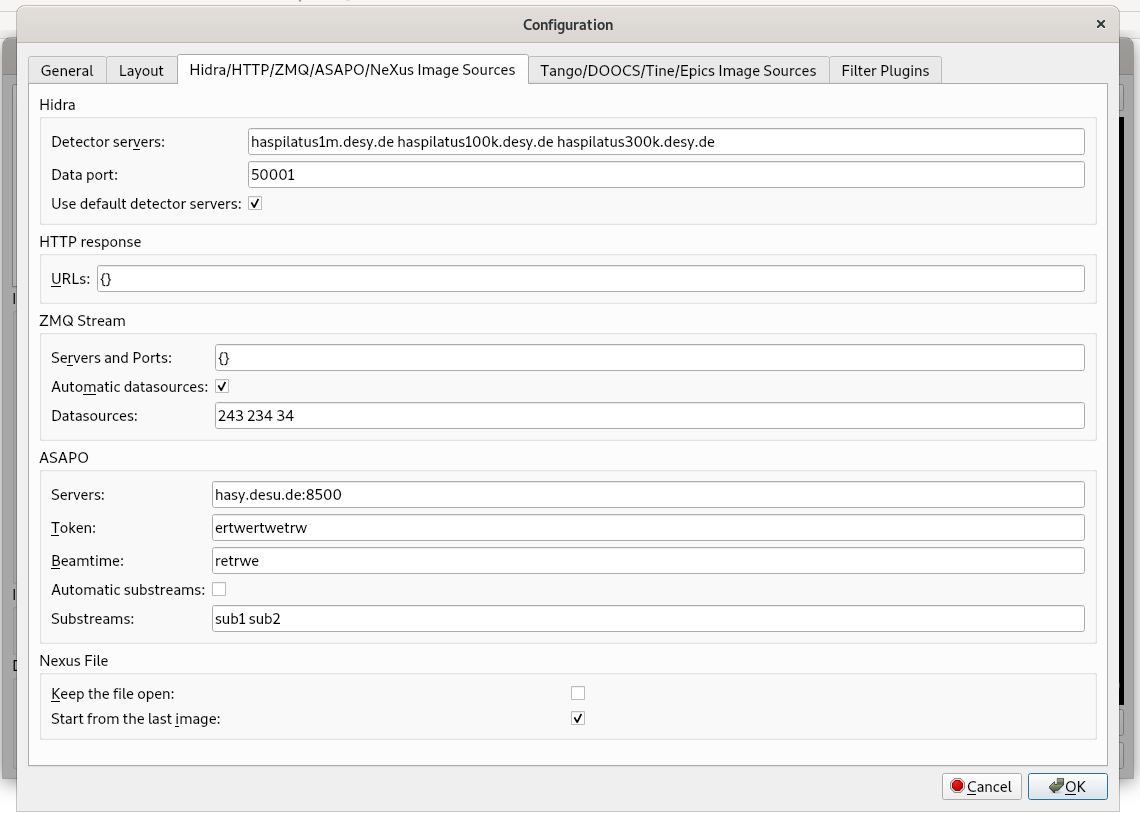
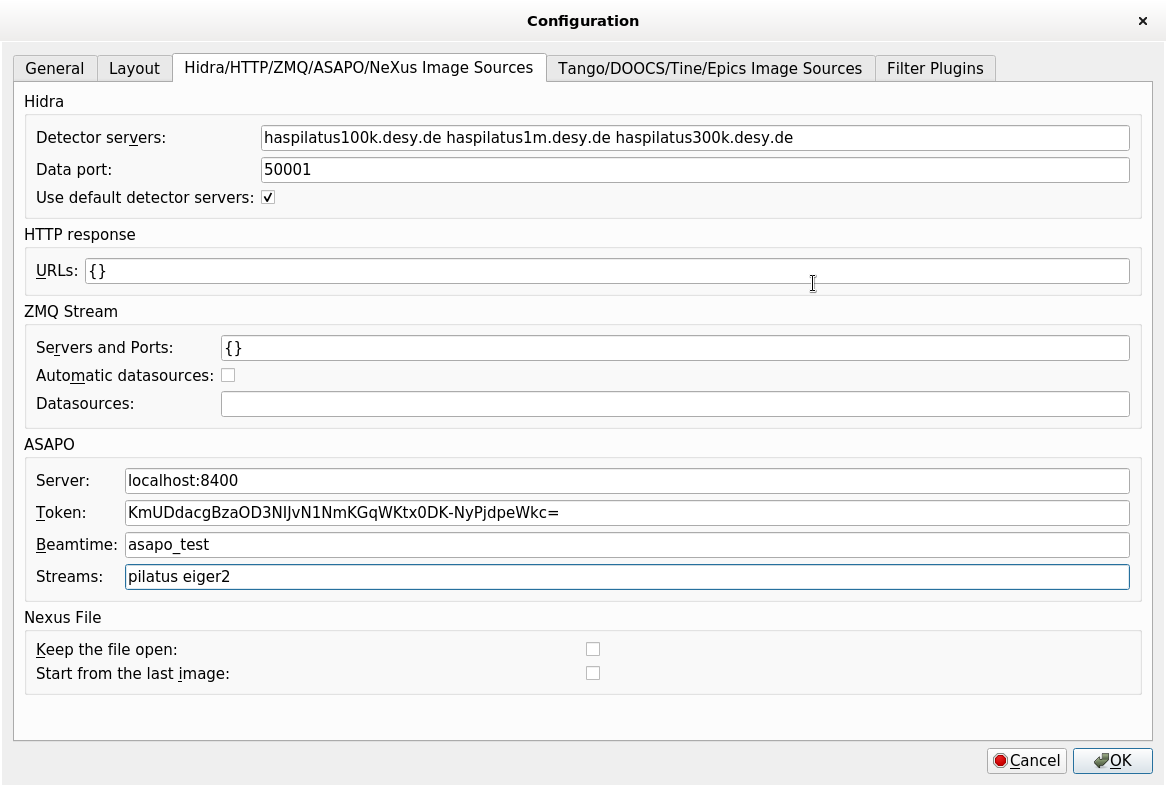
update documentation

Changed region(s): [[0.0, 0.0, 1.0, 1.0], [0.4912, 0.8539, 0.5219, 0.8844]]

diff --git a/lavuelib/help/LaVue---Start_98091837.html b/lavuelib/help/LaVue---Start_98091837.html
@@ -38,7 +38,7 @@
         
                         </div>
                     <div id="main-content" class="wiki-content group">
-                    <h3 id="LaVue-Start-StarttheViewer">Start the Viewer</h3><p>To start LaVue</p><pre>  $ lavue</pre><p>for python 2.7 or</p><pre>  <span class="pl-s1">$ lavue3</span></pre><p>for python 3.</p><h3 id="LaVue-Start-StarttheViewerintheexpertmode">Start the Viewer in the expert mode</h3><p>Changing LaVue  settings is available in the expert mode, i.e.</p><pre>  $ lavue -m expert</pre><p>under an additional button: <code>Configuration</code>.</p><h3 id="LaVue-Start-Launchingoptions">Launching options</h3><p>To get all possible command-line parameters</p><pre>  <span class="pl-s1">$ lavue -h</span></pre><pre><span class="pl-s1"><br/><br/>usage: lavue [-h] [-v] [-m MODE] [-y STYLE] [-e STYLESHEET] [-j INSTANCE]<br/>             [-f IMAGEFILE] [-s SOURCE] [-c CONFIGURATION] [-z] [-o MBUFFER]<br/>             [--channel CHANNEL] [-b BKGFILE] [-k MASKFILE] [-p MASKHIGHVALUE]<br/>             [-t TRANSFORMATION] [-i SCALING] [-l LEVELS] [-q AUTOFACTOR]<br/>             [-g GRADIENT] [-r VIEWRANGE] [-x] [-u TOOL] [-a TANGODEVICE]<br/>             [-d DOORDEVICE] [-n ANALYSISDEVICE]<br/><br/>2d detector live image viewer<br/><br/>optional arguments:<br/>  -h, --help            show this help message and exit<br/>  -v, --version         program version<br/>  -m MODE, --mode MODE  interface mode, i.e. user, expert<br/>  -y STYLE, --style STYLE<br/>                        Qt style<br/>  -e STYLESHEET, --stylesheet STYLESHEET<br/>                        Qt stylesheet<br/>  </span>-j INSTANCE, --instance INSTANCE<br/>                        LaVue instance with separate configuration<br/>  --organization ORGANIZATION<br/>                        Organization name<br/>  --domain DOMAIN<br/>                        Organization domain name<br/>  --configuration-path CONFIGPATH<br/>                        Configuration path<br/><span class="pl-s1">  -f IMAGEFILE, --image-file IMAGEFILE<br/>                        image file name to show, e.g. /tmp/myfile2.nxs://entry/data/pilatus,,-1<br/>  -s SOURCE, --source SOURCE<br/>                        image source, i.e. hidra, http, tangoattr,<br/>                            tangoevents, tangofile, doocsprop, tineprop, <br/>                            epicspv, zmq, nxsfile, test<br/>                        multiple-source names is separated by semicolon ';'<br/>  -c CONFIGURATION, --configuration CONFIGURATION<br/>                        configuration strings for the image source separated by comma, e.g.<br/>                          hidra -&gt; '-c haspilatus300k.desy.de'<br/>                          http -&gt; '-c haso228eiger/1.5.0'<br/>                          tangoattr -&gt; '-c sys/tg_test/1/double_image_ro'<br/>                          tangoevents -&gt; '-c sys/lamccds/1/video_last_image'<br/>                          tangofile -&gt; '-c p00/plt/1/LastImageTaken,p00/plt/1/LastImagePath'<br/>                          zmq -&gt; '-c haso228:5535,topic'<br/>                          doocsprop -&gt; '-c TTF2.FEL/BLFW2.CAM/BL0M1.CAM/IMAGE_EXT'<br/>                          nxsfile -&gt; '-c /tmp/myfile.nxs://entry/data/pilatus'<br/>                                  or '-c /tmp/myfile2.nxs://entry/data/pilatus,0,34'<br/>                          tineprop -&gt; '-c '/HASYLAB/P00_LM00/Output/Frame'<br/>                          epicspv -&gt; '-c '00SIM0:cam1:,[640,480]'<br/>                       configuration for multiple-sources is separated by semicolon ';'<br/>  --offset OFFSET relative offset x,y[,TRANSFORMATION]</span><span class="pl-s1"><br/>                        where x,y are position of the first pixel for a particular image source<br/>                        while optional TRANSFORMATION can be:<br/>                          flip-up-down, flipud, fud, flip-left-right, fliplr, flr, transpose, t,<br/>                          rot90, r90, rot180, r180, r270, rot270, rot180+transpose, rot180t or r180t<br/>                        offset for multiple-sources is separated by semicolon ';'<br/>                        </span>e.g.<br/>                           ;200,300;,54;121,3<br/>                           200,300;100,<br/>                           200,300;100,200,t<br/>                           ;200,300,r45;,52;11,3,r180t<br/>  -w RANGEWINDOW, --range-window RANGEWINDOW<br/>                        range window slices, i.e. x1:x2,y1:y2 , e.g. -w 10:500,20:200<br/>                          where 'm' is '-'<span class="pl-s1"><br/>  --ds-factor DSFACTOR integer down-sampling factor<br/>  --ds-reduction DSREDUCTION<br/>                        down-sampling reduction function, i.e. 'max', 'min', 'mean' or 'sum'<br/>  -z, --filters apply image filters<br/>  -o MBUFFER, --memory-buffer MBUFFER<br/>                     size of memory buffer in frames<br/>  --channel CHANNEL<br/>                     default channel number or 'sum', 'mean', 'rgb' or RGB channels separated by comma e.g.'0,1,3'<br/>  -b BKGFILE, --bkg-file BKGFILE<br/>                        background file-name to load<br/>  </span>--bright-field-file BRIGHTFIELDFILE<br/>                        bright field file-name to load<br/><span class="pl-s1">  -k MASKFILE, --mask-file MASKFILE<br/>                     background file-name to load<br/>  -p MASKHIGHVALUE, --mask-high-value MASKHIGHVALUE<br/>                        highest pixel value to show  <br/>  -t TRANSFORMATION, --transformation TRANSFORMATION<br/>                        image transformation, i.e.<br/>                          flip-up-down, flip-left-right, transpose,<br/>                          rot90, rot180, rot270, rot180+transpose<br/>  -i SCALING, --scaling SCALING<br/>                        intensity scaling, i.e. sqrt, linear, log<br/>  -l LEVELS, --levels LEVELS<br/>                        intensity display levels e.g. -l m20,20<br/>                          where 'm' is '-'<br/>  -q AUTOFACTOR, --factor AUTOFACTOR<br/>                        factor of the highest pick for automatic levels in %, e.g. -q 0.5<br/>  -g GRADIENT, --gradient GRADIENT<br/>                        color gradient, i.e. grey, highcontrast, thermal, flame,<br/>                          bipolar, spectrum, spectrumclip, greyclip, reversegrey, cyclic,<br/>                          yellowy, inverted<br/>  -r VIEWRANGE, --range VIEWRANGE<br/>                        viewbox range, i.e. xmin,ymin,xsize,ysize , e.g. -r 5.6,m60.7,543.2,444.11<br/>                            where 'm' is '-'<br/>  -x, --start           connect the image source<br/>  -u TOOL, --tool TOOL  utility tool, i.e. intensity, roi, movemotors, meshscan, maxima,<br/>                          linecut, projections, 1d-plot, angle/q, q+roi+proj, parameters, diffractogram<br/></span>  --tool-configuration TOOLCONFIG<br/>                          JSON dictionary with tool configuration, e.g. {&quot;rows_to_plot&quot;:&quot;0,1&quot;,&quot;buffer_size&quot;:512}<br/><span class="pl-s1">  -a TANGODEVICE, --tango-device TANGODEVICE<br/>                        tango device of LavueController to communicated with clients during the run<br/>  -d DOORDEVICE, --door DOORDEVICE<br/>                        door device to communicated with sardana during the run<br/>  -n </span>ANALYSISDEVICE, --analysis-device ANALYSISDEVICE <br/>                        tango analysis device of LambdaOnlineAnalysis to communicate with analysis clients during the run<br/>  --log LOG logging level, i.e. debug, info, warning, error, critical</pre><pre><span class="pl-s1"><br/></span></pre><h3 id="LaVue-Start-ChangeLog">ChangeLog</h3><p>Changes for a specific version of LaVue can be found at <a href="https://raw.githubusercontent.com/lavue-org/lavue/develop/ChangeLog" class="external-link" rel="nofollow">ChangeLog</a></p>
+                    <h3 id="LaVue-Start-StarttheViewer">Start the Viewer</h3><p>To start LaVue</p><pre>  $ lavue</pre><p>for python 2.7 or</p><pre>  <span class="pl-s1">$ lavue3</span></pre><p>for python 3.</p><h3 id="LaVue-Start-StarttheViewerintheexpertmode">Start the Viewer in the expert mode</h3><p>Changing LaVue  settings is available in the expert mode, i.e.</p><pre>  $ lavue -m expert</pre><p>under an additional button: <code>Configuration</code>.</p><h3 id="LaVue-Start-Launchingoptions">Launching options</h3><p>To get all possible command-line parameters</p><pre>  <span class="pl-s1">$ lavue -h</span></pre><pre><span class="pl-s1"><br/><br/>usage: lavue [-h] [-v] [-m MODE] [-y STYLE] [-e STYLESHEET] [-j INSTANCE]<br/>             [-f IMAGEFILE] [-s SOURCE] [-c CONFIGURATION] [-z] [-o MBUFFER]<br/>             [--channel CHANNEL] [-b BKGFILE] [-k MASKFILE] [-p MASKHIGHVALUE]<br/>             [-t TRANSFORMATION] [-i SCALING] [-l LEVELS] [-q AUTOFACTOR]<br/>             [-g GRADIENT] [-r VIEWRANGE] [-x] [-u TOOL] [-a TANGODEVICE]<br/>             [-d DOORDEVICE] [-n ANALYSISDEVICE]<br/><br/>2d detector live image viewer<br/><br/>optional arguments:<br/>  -h, --help            show this help message and exit<br/>  -v, --version         program version<br/>  -m MODE, --mode MODE  interface mode, i.e. user, expert<br/>  -y STYLE, --style STYLE<br/>                        Qt style<br/>  -e STYLESHEET, --stylesheet STYLESHEET<br/>                        Qt stylesheet<br/>  </span>-j INSTANCE, --instance INSTANCE<br/>                        LaVue instance with separate configuration<br/>  --organization ORGANIZATION<br/>                        Organization name<br/>  --domain DOMAIN<br/>                        Organization domain name<br/>  --configuration-path CONFIGPATH<br/>                        Configuration path<br/><span class="pl-s1">  -f IMAGEFILE, --image-file IMAGEFILE<br/>                        image file name to show, e.g. /tmp/myfile2.nxs://entry/data/pilatus,,-1<br/>  -s SOURCE, --source SOURCE<br/>                        image source, i.e. hidra, http, tangoattr,<br/>                            tangoevents, tangofile, doocsprop, tineprop, <br/>                            epicspv, zmq, asapo, nxsfile, test<br/>                        multiple-source names is separated by semicolon ';'<br/>  -c CONFIGURATION, --configuration CONFIGURATION<br/>                        configuration strings for the image source separated by comma, e.g.<br/>                          hidra -&gt; '-c haspilatus300k.desy.de'<br/>                          http -&gt; '-c haso228eiger/1.5.0'<br/>                          tangoattr -&gt; '-c sys/tg_test/1/double_image_ro'<br/>                          tangoevents -&gt; '-c sys/lamccds/1/video_last_image'<br/>                          tangofile -&gt; '-c p00/plt/1/LastImageTaken,p00/plt/1/LastImagePath'<br/>                          zmq -&gt; '-c haso228:5535,topic'<br/>                          doocsprop -&gt; '-c TTF2.FEL/BLFW2.CAM/BL0M1.CAM/IMAGE_EXT'<br/>                          nxsfile -&gt; '-c /tmp/myfile.nxs://entry/data/pilatus'<br/>                                  or '-c /tmp/myfile2.nxs://entry/data/pilatus,0,34'<br/>                          tineprop -&gt; '-c /HASYLAB/P00_LM00/Output/Frame'<br/>                          asapo -&gt; '-c pilatus,substream2'<br/>                          epicspv -&gt; '-c '00SIM0:cam1:,[640,480]'<br/>                       configuration for multiple-sources is separated by semicolon ';'<br/>  --offset OFFSET relative offset x,y[,TRANSFORMATION]</span><span class="pl-s1"><br/>                        where x,y are position of the first pixel for a particular image source<br/>                        while optional TRANSFORMATION can be:<br/>                          flip-up-down, flipud, fud, flip-left-right, fliplr, flr, transpose, t,<br/>                          rot90, r90, rot180, r180, r270, rot270, rot180+transpose, rot180t or r180t<br/>                        offset for multiple-sources is separated by semicolon ';'<br/>                        </span>e.g.<br/>                           ;200,300;,54;121,3<br/>                           200,300;100,<br/>                           200,300;100,200,t<br/>                           ;200,300,r45;,52;11,3,r180t<br/>  -w RANGEWINDOW, --range-window RANGEWINDOW<br/>                        range window slices, i.e. x1:x2,y1:y2 , e.g. -w 10:500,20:200<br/>                          where 'm' is '-'<span class="pl-s1"><br/>  --ds-factor DSFACTOR integer down-sampling factor<br/>  --ds-reduction DSREDUCTION<br/>                        down-sampling reduction function, i.e. 'max', 'min', 'mean' or 'sum'<br/>  -z, --filters apply image filters<br/>  -o MBUFFER, --memory-buffer MBUFFER<br/>                     size of memory buffer in frames<br/>  --channel CHANNEL<br/>                     default channel number or 'sum', 'mean', 'rgb' or RGB channels separated by comma e.g.'0,1,3'<br/>  -b BKGFILE, --bkg-file BKGFILE<br/>                        background file-name to load<br/>  </span>--bright-field-file BRIGHTFIELDFILE<br/>                        bright field file-name to load<br/><span class="pl-s1">  -k MASKFILE, --mask-file MASKFILE<br/>                     background file-name to load<br/>  -p MASKHIGHVALUE, --mask-high-value MASKHIGHVALUE<br/>                        highest pixel value to show  <br/>  -t TRANSFORMATION, --transformation TRANSFORMATION<br/>                        image transformation, i.e.<br/>                          flip-up-down, flip-left-right, transpose,<br/>                          rot90, rot180, rot270, rot180+transpose<br/>  -i SCALING, --scaling SCALING<br/>                        intensity scaling, i.e. sqrt, linear, log<br/>  -l LEVELS, --levels LEVELS<br/>                        intensity display levels e.g. -l m20,20<br/>                          where 'm' is '-'<br/>  -q AUTOFACTOR, --factor AUTOFACTOR<br/>                        factor of the highest pick for automatic levels in %, e.g. -q 0.5<br/>  -g GRADIENT, --gradient GRADIENT<br/>                        color gradient, i.e. grey, highcontrast, thermal, flame,<br/>                          bipolar, spectrum, spectrumclip, greyclip, reversegrey, cyclic,<br/>                          yellowy, inverted<br/>  -r VIEWRANGE, --range VIEWRANGE<br/>                        viewbox range, i.e. xmin,ymin,xsize,ysize , e.g. -r 5.6,m60.7,543.2,444.11<br/>                            where 'm' is '-'<br/>  -x, --start           connect the image source<br/>  -u TOOL, --tool TOOL  utility tool, i.e. intensity, roi, movemotors, meshscan, maxima,<br/>                          linecut, projections, 1d-plot, angle/q, q+roi+proj, parameters, diffractogram<br/></span>  --tool-configuration TOOLCONFIG<br/>                          JSON dictionary with tool configuration, e.g. {&quot;rows_to_plot&quot;:&quot;0,1&quot;,&quot;buffer_size&quot;:512}<br/><span class="pl-s1">  -a TANGODEVICE, --tango-device TANGODEVICE<br/>                        tango device of LavueController to communicated with clients during the run<br/>  -d DOORDEVICE, --door DOORDEVICE<br/>                        door device to communicated with sardana during the run<br/>  -n </span>ANALYSISDEVICE, --analysis-device ANALYSISDEVICE <br/>                        tango analysis device of LambdaOnlineAnalysis to communicate with analysis clients during the run<br/>  --log LOG logging level, i.e. debug, info, warning, error, critical</pre><pre><span class="pl-s1"><br/></span></pre><h3 id="LaVue-Start-ChangeLog">ChangeLog</h3><p>Changes for a specific version of LaVue can be found at <a href="https://raw.githubusercontent.com/lavue-org/lavue/develop/ChangeLog" class="external-link" rel="nofollow">ChangeLog</a></p>
                     </div>
 
                     
@@ -46,7 +46,7 @@
                 </div>             </div> 
             <div id="footer" role="contentinfo">
                 <section class="footer-body">
-                    <!--<p>Document generated by Confluence on 06. Feb. 2020 08:57</p>-->
+<!--<p>Document generated by Confluence on 06. Feb. 2020 08:57</p>-->
                     <!--<div id="footer-logo"><a href="http://www.atlassian.com/">Atlassian</a></div>-->
                 </section>
             </div>

diff --git a/lavuelib/help/98092151.html b/lavuelib/help/98092151.html
@@ -44,7 +44,7 @@
         
                         </div>
                     <div id="main-content" class="wiki-content group">
-                    <p><br/></p><p>The third tab of the configuration dialog contains <strong>Image Sources</strong> configuration. It allows for the user to adjust image sources and their dialogs.</p><p><span class="confluence-embedded-file-wrapper confluence-embedded-manual-size"><img class="confluence-embedded-image"  src="attachments/98092151/129385454.png" data-image-src="attachments/98092151/129385454.png" data-unresolved-comment-count="0" data-linked-resource-id="129385454" data-linked-resource-version="5" data-linked-resource-type="attachment" data-linked-resource-default-alias="lavue_config_isources.png" data-base-url="https://confluence.desy.de" data-linked-resource-content-type="image/png" data-linked-resource-container-id="98092151" data-linked-resource-container-version="17"></span></p><p><strong>Hidra:</strong></p><ul><li><strong>Detector servers:  </strong>possible hidra detector hosts separated by spaces</li><li><strong>Data port: </strong>hidra data port. Each instance of lavue on the same host should use a different data port</li><li><strong>Use default detector servers: </strong>add default detector server names from the DESY pool</li></ul><p><strong>HTTP response</strong></p><ul><li><strong> URLs:</strong> <a href="https://www.json.org/" class="external-link" rel="nofollow">JSON</a> dictionary assigning labels to HTTP urls</li></ul><p><strong>ZMQ Stream</strong></p><ul><li><strong>Servers and Ports:</strong><a href="https://www.json.org/" class="external-link" rel="nofollow"> JSON</a> dictionary assigning labels to server and port of ZMQ stream</li><li><strong>Automatic datasources: </strong>selects possible datasources from ZMQ stream metadata</li><li><strong>Datasources: </strong>defines possible datasources, i.e. ZMQ topics, separated by spaces</li></ul><p><strong>ASAPO</strong></p><ul><li><strong>Servers: </strong>possible ASAPO servers, i.e. host:port,  separated by spaces</li><li><strong>Token: </strong>token to asapo servers</li><li><strong>Beamtime: </strong>a name of beamtime used by asapo</li><li><strong>Automatic substreams:</strong> fetches possible substreams from ASAPO broker</li><li><strong>Substreams:</strong> defines possible substream names which are separated by spaces</li></ul><p><strong>Nexus File</strong></p><ul><li><strong>Keep the file open:</strong> does not close the nexus file after reading the field frame</li><li><strong>Start from the last image: </strong>displays only the last image frame</li></ul><p><br/></p><p><br/></p>
+                    <p><br/></p><p>The third tab of the configuration dialog contains <strong>Image Sources</strong> configuration. It allows for the user to adjust image sources and their dialogs.</p><p><span class="confluence-embedded-file-wrapper confluence-embedded-manual-size"><img class="confluence-embedded-image"  src="attachments/98092151/129385454.png" data-image-src="attachments/98092151/129385454.png" data-unresolved-comment-count="0" data-linked-resource-id="129385454" data-linked-resource-version="6" data-linked-resource-type="attachment" data-linked-resource-default-alias="lavue_config_isources.png" data-base-url="https://confluence.desy.de" data-linked-resource-content-type="image/png" data-linked-resource-container-id="98092151" data-linked-resource-container-version="19"></span></p><p><strong>Hidra:</strong></p><ul><li><strong>Detector servers:  </strong>possible hidra detector hosts separated by spaces</li><li><strong>Data port: </strong>hidra data port. Each instance of lavue on the same host should use a different data port</li><li><strong>Use default detector servers: </strong>add default detector server names from the DESY pool</li></ul><p><strong>HTTP response</strong></p><ul><li><strong> URLs:</strong> <a href="https://www.json.org/" class="external-link" rel="nofollow">JSON</a> dictionary assigning labels to HTTP urls</li></ul><p><strong>ZMQ Stream</strong></p><ul><li><strong>Servers and Ports:</strong><a href="https://www.json.org/" class="external-link" rel="nofollow"> JSON</a> dictionary assigning labels to server and port of ZMQ stream</li><li><strong>Automatic datasources: </strong>selects possible datasources from ZMQ stream metadata</li><li><strong>Datasources: </strong>defines possible datasources, i.e. ZMQ topics, separated by spaces</li></ul><p><strong>ASAPO</strong></p><ul><li><strong>Server: </strong>ASAPO servers, i.e. host:port</li><li><strong>Token: </strong>token to asapo servers</li><li><strong>Beamtime: </strong>a name of beamtime used by asapo</li><li><strong>Streams:</strong> defines possible stream names which are separated by spaces</li></ul><p><strong>Nexus File</strong></p><ul><li><strong>Keep the file open:</strong> does not close the nexus file after reading the field frame</li><li><strong>Start from the last image: </strong>displays only the last image frame</li></ul><p><br/></p><p><br/></p>
                     </div>
 
                                         </div><section><!-- <div class="pageSection group">
@@ -66,6 +66,9 @@
                                 <a href="attachments/98092151/185888765.png">lavue_config_isources.png</a> (image/png)
                                 <br/>
                                                             <img src="images/icons/bullet_blue.gif" height="8" width="8" alt=""/>
+                                <a href="attachments/98092151/187892359.png">lavue_config_isources.png</a> (image/png)
+                                <br/>
+                                                            <img src="images/icons/bullet_blue.gif" height="8" width="8" alt=""/>
                                 <a href="attachments/98092151/129385454.png">lavue_config_isources.png</a> (image/png)
                                 <br/>
                                                     </div>
@@ -75,7 +78,7 @@
                 </div>             </div> 
             <div id="footer" role="contentinfo">
                 <section class="footer-body">
-                    <!--<p>Document generated by Confluence on 06. Feb. 2020 08:57</p>-->
+<!--<p>Document generated by Confluence on 06. Feb. 2020 08:57</p>-->
                     <!--<div id="footer-logo"><a href="http://www.atlassian.com/">Atlassian</a></div>-->
                 </section>
             </div>

diff --git a/lavuelib/help/LaVue---ASAPO_185888718.html b/lavuelib/help/LaVue---ASAPO_185888718.html
@@ -44,7 +44,7 @@
         
                         </div>
                     <div id="main-content" class="wiki-content group">
-                    <p>Images from a  <a href="https://confluence.desy.de/display/ASAPO/ASAP%3A%3AO">ASAP::O</a> server, e.g. detector servers. It is used to send <code>post-processed images</code></p><p><span class="confluence-embedded-file-wrapper confluence-embedded-manual-size"><span class="confluence-embedded-file-wrapper confluence-embedded-manual-size"><img class="confluence-embedded-image"  src="attachments/185888718/185888724.png" data-image-src="attachments/185888718/185888724.png" data-unresolved-comment-count="0" data-linked-resource-id="185888724" data-linked-resource-version="1" data-linked-resource-type="attachment" data-linked-resource-default-alias="asapolavue.png" data-base-url="https://confluence.desy.de" data-linked-resource-content-type="image/png" data-linked-resource-container-id="185888718" data-linked-resource-container-version="2"></span></span></p><p>The  <strong>ASAPO</strong> image source frame contains the following fields:</p><ul><li><strong>Server</strong>: selects the asapo server host and data port.</li><li><strong>Substream:</strong> name of asapo substream. Possible substreams can be predefined in the configuration or fetched from the ASAPO server.</li><li><strong>Status:</strong> shows the connection status. It also displays a port of ZMQ security stream if it is enabled.</li><li><strong>Start/Stop</strong> button to launch or interrupt image querying</li></ul><p>In order to use <strong>ASAPO</strong> image source user has to set asapo token and asapo beamtime  in the lavue Configuration.</p>
+                    <p>Images from a  <a href="https://confluence.desy.de/display/ASAPO/ASAP%3A%3AO">ASAP::O</a> server, e.g. detector servers. It is used to send <code>post-processed images</code></p><p><span class="confluence-embedded-file-wrapper confluence-embedded-manual-size"><span class="confluence-embedded-file-wrapper confluence-embedded-manual-size"><img class="confluence-embedded-image"  src="attachments/185888718/185888724.png" data-image-src="attachments/185888718/185888724.png" data-unresolved-comment-count="0" data-linked-resource-id="185888724" data-linked-resource-version="2" data-linked-resource-type="attachment" data-linked-resource-default-alias="asapolavue.png" data-base-url="https://confluence.desy.de" data-linked-resource-content-type="image/png" data-linked-resource-container-id="185888718" data-linked-resource-container-version="5"></span></span></p><p>The  <strong>ASAPO</strong> image source frame contains the following fields:</p><ul><li><strong>Stream:</strong> name of asapo substream. Possible streams can be predefined in the configuration. The default one is <code>detector</code></li><li><strong>Substream:</strong> name of asapo substream. List of substreams  is fetched from the ASAPO server. The default one in <code>default</code> while <code>**ALL**</code> corresponds to the last one image from all streams.</li><li><strong>Status:</strong> shows the connection status. It also displays a port of ZMQ security stream if it is enabled.</li><li><strong>Start/Stop</strong> button to launch or interrupt image querying</li></ul><p>In order to use <strong>ASAPO</strong> image source user has to set an asapo<code> server</code>, an asapo<code> token</code> and an asapo <code>beamtime</code> in the lavue Configuration.</p>
                     </div>
 
                                         </div><section><!-- <div class="pageSection group">
@@ -57,6 +57,9 @@
                                 <a href="attachments/185888718/185888722.png">zmqstreamlavue.png</a> (image/png)
                                 <br/>
                                                             <img src="images/icons/bullet_blue.gif" height="8" width="8" alt=""/>
+                                <a href="attachments/185888718/187892361.png">asapolavue.png</a> (image/png)
+                                <br/>
+                                                            <img src="images/icons/bullet_blue.gif" height="8" width="8" alt=""/>
                                 <a href="attachments/185888718/185888724.png">asapolavue.png</a> (image/png)
                                 <br/>
                                                     </div>
@@ -66,7 +69,7 @@
                 </div>             </div> 
             <div id="footer" role="contentinfo">
                 <section class="footer-body">
-                    <!--<p>Document generated by Confluence on 06. Feb. 2020 08:57</p>-->
+<!--<p>Document generated by Confluence on 06. Feb. 2020 08:57</p>-->
                     <!--<div id="footer-logo"><a href="http://www.atlassian.com/">Atlassian</a></div>-->
                 </section>
             </div>

diff --git a/lavuelib/help/LaVue---Installation_98091815.html b/lavuelib/help/LaVue---Installation_98091815.html
@@ -55,7 +55,7 @@ $ <span class="pl-s1">pip install pytango</span></pre><p><br/></p><p><br/></p><p
                 </div>             </div> 
             <div id="footer" role="contentinfo">
                 <section class="footer-body">
-                    <!--<p>Document generated by Confluence on 06. Feb. 2020 08:57</p>-->
+<!--<p>Document generated by Confluence on 06. Feb. 2020 08:57</p>-->
                     <!--<div id="footer-logo"><a href="http://www.atlassian.com/">Atlassian</a></div>-->
                 </section>
             </div>

diff --git a/lavuelib/help/LaVue---LavueController-server_98091989.html b/lavuelib/help/LaVue---LavueController-server_98091989.html
@@ -101,7 +101,7 @@
                 </div>             </div> 
             <div id="footer" role="contentinfo">
                 <section class="footer-body">
-                    <!--<p>Document generated by Confluence on 06. Feb. 2020 08:57</p>-->
+<!--<p>Document generated by Confluence on 06. Feb. 2020 08:57</p>-->
                     <!--<div id="footer-logo"><a href="http://www.atlassian.com/">Atlassian</a></div>-->
                 </section>
             </div>

diff --git a/lavuelib/help/129385459.html b/lavuelib/help/129385459.html
@@ -66,7 +66,7 @@
                 </div>             </div> 
             <div id="footer" role="contentinfo">
                 <section class="footer-body">
-                    <!--<p>Document generated by Confluence on 06. Feb. 2020 08:57</p>-->
+<!--<p>Document generated by Confluence on 06. Feb. 2020 08:57</p>-->
                     <!--<div id="footer-logo"><a href="http://www.atlassian.com/">Atlassian</a></div>-->
                 </section>
             </div>

diff --git a/lavuelib/help/98092105.html b/lavuelib/help/98092105.html
@@ -63,7 +63,7 @@
                 </div>             </div> 
             <div id="footer" role="contentinfo">
                 <section class="footer-body">
-                    <!--<p>Document generated by Confluence on 06. Feb. 2020 08:57</p>-->
+<!--<p>Document generated by Confluence on 06. Feb. 2020 08:57</p>-->
                     <!--<div id="footer-logo"><a href="http://www.atlassian.com/">Atlassian</a></div>-->
                 </section>
             </div>

diff --git a/lavuelib/help/98092127.html b/lavuelib/help/98092127.html
@@ -70,7 +70,7 @@
                 </div>             </div> 
             <div id="footer" role="contentinfo">
                 <section class="footer-body">
-                    <!--<p>Document generated by Confluence on 06. Feb. 2020 08:57</p>-->
+<!--<p>Document generated by Confluence on 06. Feb. 2020 08:57</p>-->
                     <!--<div id="footer-logo"><a href="http://www.atlassian.com/">Atlassian</a></div>-->
                 </section>
             </div>

diff --git a/lavuelib/help/LaVue---1d-Plot-Tool_98092122.html b/lavuelib/help/LaVue---1d-Plot-Tool_98092122.html
@@ -69,7 +69,7 @@
                 </div>             </div> 
             <div id="footer" role="contentinfo">
                 <section class="footer-body">
-                    <!--<p>Document generated by Confluence on 06. Feb. 2020 08:57</p>-->
+<!--<p>Document generated by Confluence on 06. Feb. 2020 08:57</p>-->
                     <!--<div id="footer-logo"><a href="http://www.atlassian.com/">Atlassian</a></div>-->
                 </section>
             </div>

diff --git a/lavuelib/help/LaVue---2D-plot_99485616.html b/lavuelib/help/LaVue---2D-plot_99485616.html
@@ -60,7 +60,7 @@
                 </div>             </div> 
             <div id="footer" role="contentinfo">
                 <section class="footer-body">
-                    <!--<p>Document generated by Confluence on 06. Feb. 2020 08:57</p>-->
+<!--<p>Document generated by Confluence on 06. Feb. 2020 08:57</p>-->
                     <!--<div id="footer-logo"><a href="http://www.atlassian.com/">Atlassian</a></div>-->
                 </section>
             </div>

diff --git a/lavuelib/help/LaVue---Configuration_98091985.html b/lavuelib/help/LaVue---Configuration_98091985.html
@@ -49,7 +49,7 @@
                 </div>             </div> 
             <div id="footer" role="contentinfo">
                 <section class="footer-body">
-                    <!--<p>Document generated by Confluence on 06. Feb. 2020 08:57</p>-->
+<!--<p>Document generated by Confluence on 06. Feb. 2020 08:57</p>-->
                     <!--<div id="footer-logo"><a href="http://www.atlassian.com/">Atlassian</a></div>-->
                 </section>
             </div>

diff --git a/lavuelib/help/LaVue---DOOCS-Property_143202773.html b/lavuelib/help/LaVue---DOOCS-Property_143202773.html
@@ -63,7 +63,7 @@
                 </div>             </div> 
             <div id="footer" role="contentinfo">
                 <section class="footer-body">
-                    <!--<p>Document generated by Confluence on 06. Feb. 2020 08:57</p>-->
+<!--<p>Document generated by Confluence on 06. Feb. 2020 08:57</p>-->
                     <!--<div id="footer-logo"><a href="http://www.atlassian.com/">Atlassian</a></div>-->
                 </section>
             </div>
